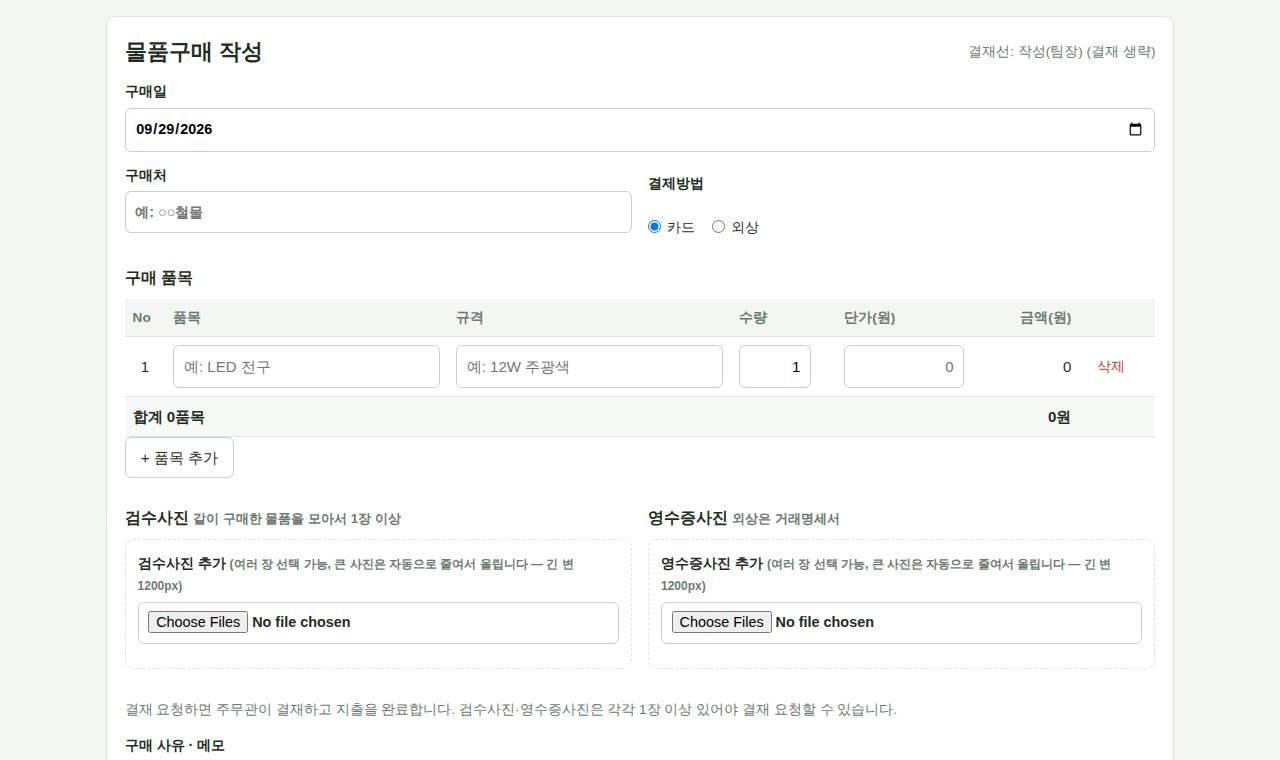
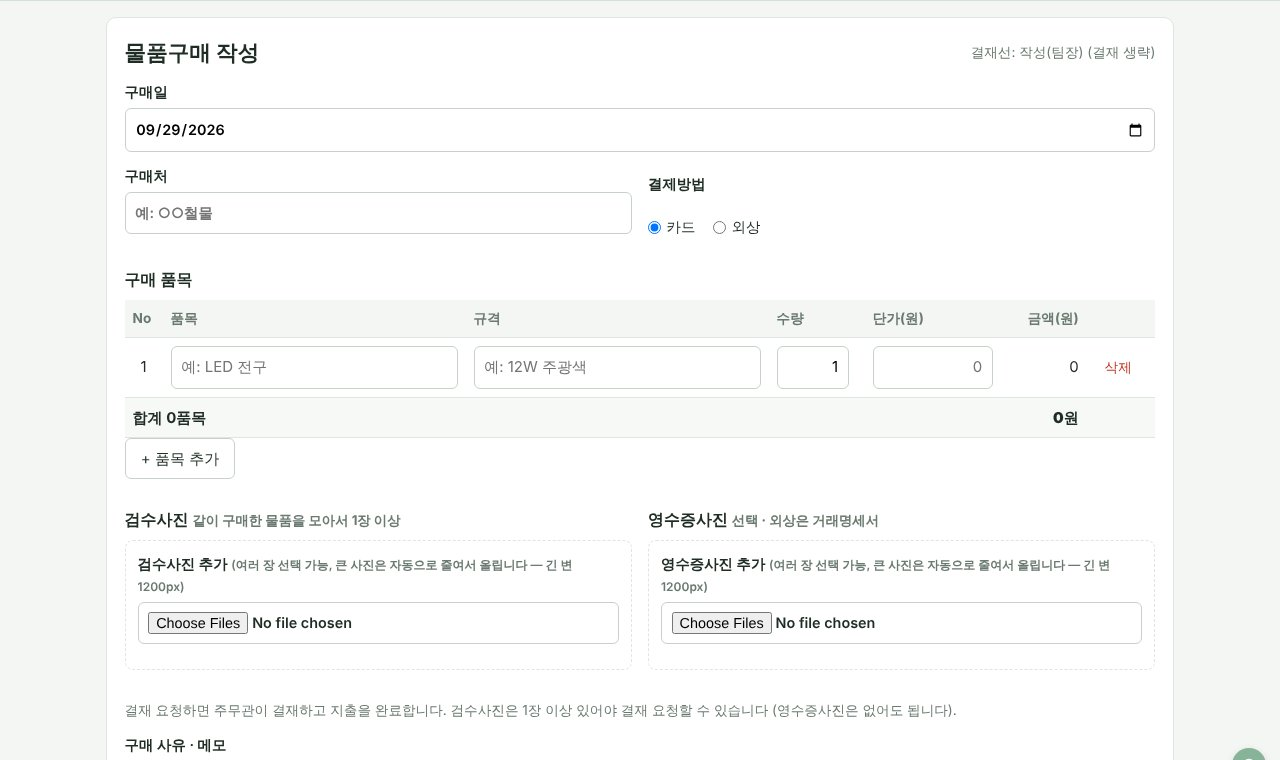
물품구매: 영수증사진 없이도 결재 요청 (검수사진만 필수)
- 결재 요청 시 사진 확인을 검수사진 1장 이상으로만
- 작성 화면 안내 문구·도움말·README·업데이트 내역, 도움말 캡처 갱신

Claude-Session: https://claude.ai/code/session_01Lr6yxKyasrSL9QLfMX5TX8

diff --git a/app/purchase.php b/app/purchase.php
@@ -62,10 +62,10 @@ function purchase_parse(int $journalId): array
         $items[] = $it;
     }
     if (!$items) $errors[] = '구매 품목을 1개 이상 입력하세요.';
-    // 사진: 이미 있는 것(삭제 체크 제외) + 새로 올리는 것이 1장 이상이어야 결재 요청 가능
+    // 검수사진: 이미 있는 것(삭제 체크 제외) + 새로 올리는 것이 1장 이상이어야 결재 요청 가능 (영수증사진은 없어도 됨)
     if (post('action') === 'submit' || ($journalId && ($j = journal_find($journalId)) && $j['submitted_at'])) {
         $deleted = array_map('intval', (array) ($_POST['delete_photos'] ?? []));
-        foreach (['purchase_check' => ['check_photos', '검수사진'], 'purchase_receipt' => ['receipt_photos', '영수증사진']] as $type => [$field, $label]) {
+        foreach (['purchase_check' => ['check_photos', '검수사진']] as $type => [$field, $label]) {
             $kept = $journalId ? count(array_filter(photos_for($type, $journalId), fn($p) => !in_array((int) $p['id'], $deleted, true))) : 0;
             $new = count(array_filter((array) ($_FILES[$field]['error'] ?? []), fn($e) => (int) $e === UPLOAD_ERR_OK));
             if ($kept + $new === 0) $errors[] = "{$label}을 1장 이상 올리세요.";
@@ -141,10 +141,10 @@ function purchase_form(array $payload, ?array $journal): void
   <div class="grid2 pc-photos">
     <div><h3>검수사진 <small class="muted">같이 구매한 물품을 모아서 1장 이상</small></h3>
       <?php render_photo_editor('purchase_check', $id, PURCHASE_PHOTO_MAX, 'check_photos', '검수사진 추가') ?></div>
-    <div><h3>영수증사진 <small class="muted">외상은 거래명세서</small></h3>
+    <div><h3>영수증사진 <small class="muted">선택 · 외상은 거래명세서</small></h3>
       <?php render_photo_editor('purchase_receipt', $id, PURCHASE_PHOTO_MAX, 'receipt_photos', '영수증사진 추가') ?></div>
   </div>
-  <p class="muted small">결재 요청하면 주무관이 결재하고 지출을 완료합니다. 검수사진·영수증사진은 각각 1장 이상 있어야 결재 요청할 수 있습니다.</p>
+  <p class="muted small">결재 요청하면 주무관이 결재하고 지출을 완료합니다. 검수사진은 1장 이상 있어야 결재 요청할 수 있습니다 (영수증사진은 없어도 됩니다).</p>
 </div>
 <script>
 (function () {

diff --git a/app/help.php b/app/help.php
@@ -358,7 +358,7 @@ HTML],
             ['id' => 'purchase', 'title' => '물품구매 (공무직 이상)', 'keys' => ['purchase'], 'img' => ['purchase.jpg' => '물품구매 목록', 'purchase_write.jpg' => '물품구매 등록'], 'body' => <<<'HTML'
 <p>재고관리와 별개인 <b>구매 증빙</b>입니다. 구매 1건(구매일·구매처) = 결재 문서 1건.</p>
 <ol>
-  <li><b>+ 물품구매 등록</b>: 구매일·구매처·결제방법(카드·외상)·품목(수량·단가)·<b>검수사진</b>(모아서 1장 이상)·<b>영수증사진</b>(외상은 거래명세서).</li>
+  <li><b>+ 물품구매 등록</b>: 구매일·구매처·결제방법(카드·외상)·품목(수량·단가)·<b>검수사진</b>(모아서 1장 이상, 필수)·<b>영수증사진</b>(선택, 외상은 거래명세서).</li>
   <li><b>결재 요청</b> → <b>주무관 결재</b> → 주무관이 보기 화면에서 <b>지출 완료</b>(지출일·메모).</li>
 </ol>
 <ul>

diff --git a/app/changelog.php b/app/changelog.php
@@ -7,6 +7,9 @@ defined('APP_ROOT') || exit;
  *   ['date' => 'YYYY-MM-DD', 'title' => '한 줄 요약', 'items' => ['자세한 내용', ...], 'menu' => '관련 메뉴(선택)']
  */
 const CHANGELOG = [
+    ['date' => '2026-10-23', 'title' => '물품구매: 영수증사진 없이도 결재 요청', 'menu' => '시설관리', 'items' => [
+        '물품구매를 결재 요청할 때 검수사진만 1장 이상 있으면 됩니다. 영수증사진은 없어도 등록됩니다.',
+    ]],
     ['date' => '2026-10-23', 'title' => '사이트 이름 「쉬자!쉼ON」, 설정에서 이름 바꾸기', 'menu' => '설정', 'items' => [
         "사이트 이름을 '쉬자!쉼ON'으로 바꿨습니다 (상단 제목·로그인 화면·인쇄 제목·청소관리 앱 이름).",
         "앞으로 이름은 설정 › 기본 정보의 '사이트 이름'에서 바꿉니다. 비우면 예전처럼 서버 설정 파일의 이름을 씁니다.",
